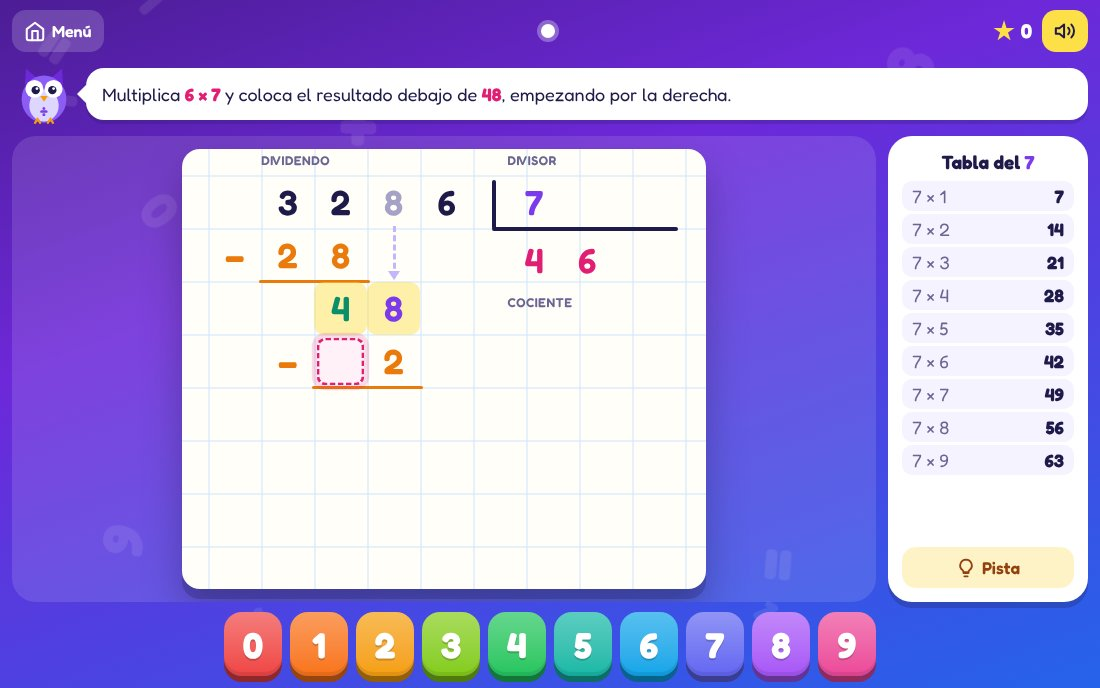
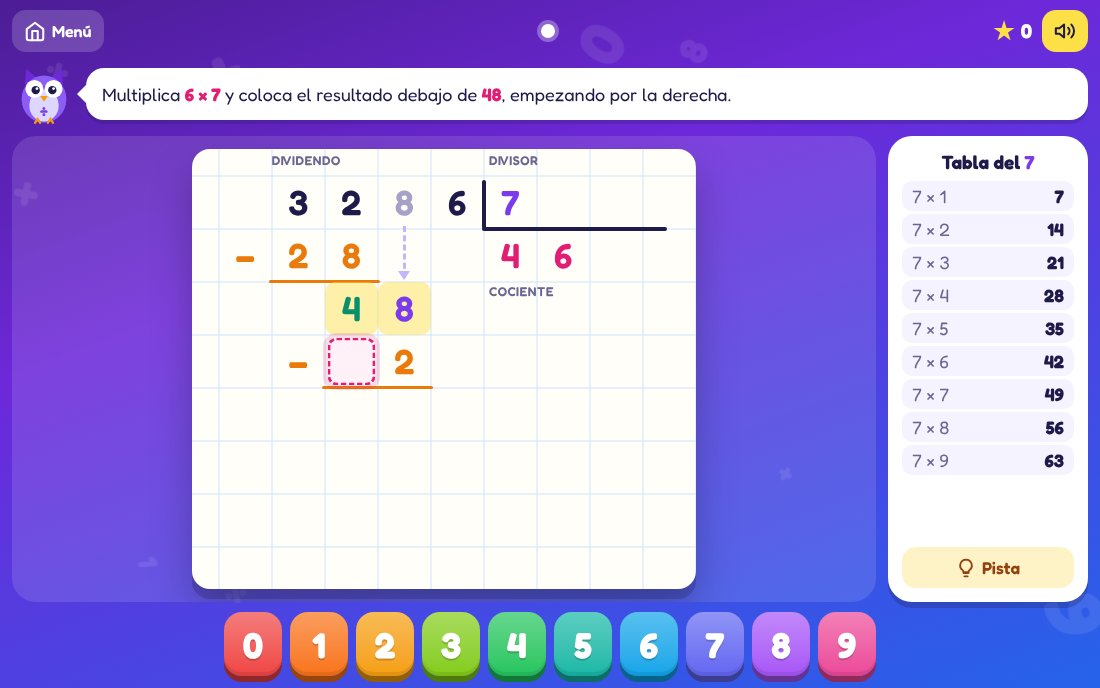
Alinear todas las cifras con la cuadrícula en sumas, restas, multiplicaciones y divisiones
Claude-Session: https://claude.ai/code/session_01JmubsGKrFVpedsRh6pD2No

diff --git a/matematicas/operaciones.html b/matematicas/operaciones.html
@@ -113,6 +113,7 @@
   }
   .cell { position: absolute; width: var(--s); height: var(--s); display: grid; place-items: center; font-weight: 600; border-radius: 10px; transition: background .2s; }
   .cell.sm { width: calc(var(--s) * .52); height: calc(var(--s) * .52); font-size: calc(var(--s) * .36); border-radius: 8px; }
+  .cell.sm.corner { width: calc(var(--s) * .4); height: calc(var(--s) * .4); font-size: calc(var(--s) * .3); }
   .cell.given { color: var(--ink); }
   .cell.hl { background: rgba(253, 224, 71, .5); }
   .cell.k-d { color: var(--res); }
@@ -343,7 +344,7 @@ let prob = null;
 function buildSuma(nums) {
   const total = nums.reduce((a, b) => a + b), k = nums.length;
   const nc = len(total), ml = Math.max(...nums.map(len));
-  const rows = [.6, ...nums.map(() => 1), 1];
+  const rows = [1, ...nums.map(() => 1), 1];
   const resRow = k + 1;
   const statics = [], tasks = [];
   nums.forEach((n, j) => String(n).split('').reverse().forEach((v, c) => statics.push({ col: c, row: 1 + j, v })));
@@ -433,7 +434,7 @@ function buildResta([a, b]) {
 function buildMult([a, b]) {
   const res = a * b, nc = len(res), la = len(a), nb = len(b);
   const pr = nb > 1 ? 4 : 3;
-  const rows = [.6, 1, 1, ...(nb > 1 ? [.6] : []), ...Array(nb).fill(1), ...(nb > 1 ? [1] : [])];
+  const rows = [1, 1, 1, ...(nb > 1 ? [1] : []), ...Array(nb).fill(1), ...(nb > 1 ? [1] : [])];
   const statics = [], tasks = [];
   String(a).split('').reverse().forEach((v, c) => statics.push({ col: c, row: 1, v }));
   String(b).split('').reverse().forEach((v, c) => statics.push({ col: c, row: 2, v }));
@@ -661,15 +662,15 @@ function render() {
   const hl = new Set((T.hl || []).map(([c, r]) => c + ',' + r));
   // Cabecera de columnas (U, D, C…)
   for (let c = 0; c < p.nc; c++) el('colhead' + ((T.colHead ?? (T.hl && T.hl[0][0])) === c ? ' on' : ''), X(c), pad * .45, COLS[c]);
-  // Posición de una casilla pequeña (llevada)
+  // Las llevadas van dentro de su cuadro: abajo en su fila, o en la esquina del número en la resta
   const small = tk => tk.corner
-    ? [X(tk.col) - S * .2, Y(tk.row) - S * .16]
-    : [X(tk.col) + S * .24, Y(tk.row) + (p.rows[tk.row] * S - S * .52) / 2];
+    ? [X(tk.col) + S * .03, Y(tk.row) + S * .03]
+    : [X(tk.col) + S * .24, Y(tk.row) + S * .44];
 
   p.statics.forEach(s => {
     if (s.mark) {
       if (p.t <= s.after) return;
-      const e = el('cell sm mark', X(s.col) - S * .2, Y(s.row) - S * .16, s.v);
+      const e = el('cell sm corner mark', X(s.col) + S * .03, Y(s.row) + S * .03, s.v);
       return e;
     }
     el('cell given' + (hl.has(s.col + ',' + s.row) ? ' hl' : ''), X(s.col), Y(s.row), s.v);
@@ -685,7 +686,7 @@ function render() {
     const st = i < p.t ? 'filled' : i === p.t ? 'active' : (tk.kind === 'd' && tk.group === T.group ? 'pending' : null);
     if (!st || (st === 'filled' && tk.until != null && p.t > tk.until)) return;
     let cls = `cell k-${tk.kind} ${st}`;
-    if (tk.kind === 'c') cls += ' sm';
+    if (tk.kind === 'c') cls += tk.corner ? ' sm corner' : ' sm';
     if (st === 'active') cls += ' drop';
     if (tk.key === p.lastKey) cls += ' pop';
     if (tk.pp) cls += ' pp';

diff --git a/matematicas/division.html b/matematicas/division.html
@@ -495,7 +495,7 @@ function render() {
   const n = p.digs.length, m = String(p.d).length, ql = p.steps.length;
   const rows = p.restas ? 1 + 2 * ql : 1 + ql;
   const boxW = Math.max(m, ql) + .5;
-  const uw = n + 1 + .4 + boxW + 1, uh = rows + 1.3;
+  const uw = n + 1 + boxW + 1, uh = rows + 1.3;
   let S = Math.floor(Math.min((wrap.clientWidth - 12) / uw, (wrap.clientHeight - 24) / uh, 72));
   S = Math.max(S, 30);
   const pad = S * .5;
@@ -505,7 +505,7 @@ function render() {
   b.style.height = uh * S + 'px';
   b.style.backgroundPosition = `${pad}px ${pad}px`;
   const X = c => pad + (c + 1) * S, Y = r => pad + r * S;
-  const boxX = X(n) + S * .4;
+  const boxX = X(n);
   const el = (cls, x, y, txt, attrs = {}) => {
     const e = document.createElement('div');
     e.className = cls; e.style.left = x + 'px'; e.style.top = y + 'px';
@@ -543,13 +543,13 @@ function render() {
   el('tag', X(0), Y(0) - pad * .85, 'Dividendo').style.whiteSpace = 'nowrap';
 
   // Divisor y caja
-  String(p.d).split('').forEach((v, j) => el('cell given dv', boxX + S * .25 + j * S, Y(0), v));
-  el('tag', boxX + S * .25, Y(0) - pad * .85, 'Divisor').style.whiteSpace = 'nowrap';
+  String(p.d).split('').forEach((v, j) => el('cell given dv', boxX + j * S, Y(0), v));
+  el('tag', boxX + S * .1, Y(0) - pad * .85, 'Divisor').style.whiteSpace = 'nowrap';
   const vl = el('vline', boxX - 2, Y(0) + S * .08);
   vl.style.width = '4px'; vl.style.height = S * .92 + 'px';
   const hl2 = el('hline', boxX - 2, Y(1) - 2);
   hl2.style.height = '4px'; hl2.style.width = boxW * S + 'px';
-  if (p.t > 0) el('tag', boxX + S * .25, Y(2) + S * .25, 'Cociente').style.whiteSpace = 'nowrap';
+  if (p.t > 0) el('tag', boxX + S * .1, Y(2) + S * .05, 'Cociente').style.whiteSpace = 'nowrap';
 
   // Signo menos y raya de cada resta
   if (p.restas) p.steps.forEach((s, k) => {
@@ -568,8 +568,8 @@ function render() {
     const st = i < p.t ? 'filled' : i === p.t ? 'active' : (tk.type === T.type && tk.k === T.k ? 'pending' : null);
     if (!st) return;
     const isQ = tk.type === 'q';
-    const x = isQ ? boxX + S * .25 + tk.k * S : X(tk.col);
-    const y = isQ ? Y(1) + S * .1 : Y(tk.row);
+    const x = isQ ? boxX + tk.k * S : X(tk.col);
+    const y = isQ ? Y(1) : Y(tk.row);
     let cls = `cell t-${tk.type} ${st}`;
     if (st === 'active') cls += ' drop';
     if (!isQ && hl.has(tk.row + ',' + tk.col)) cls += ' hl';
